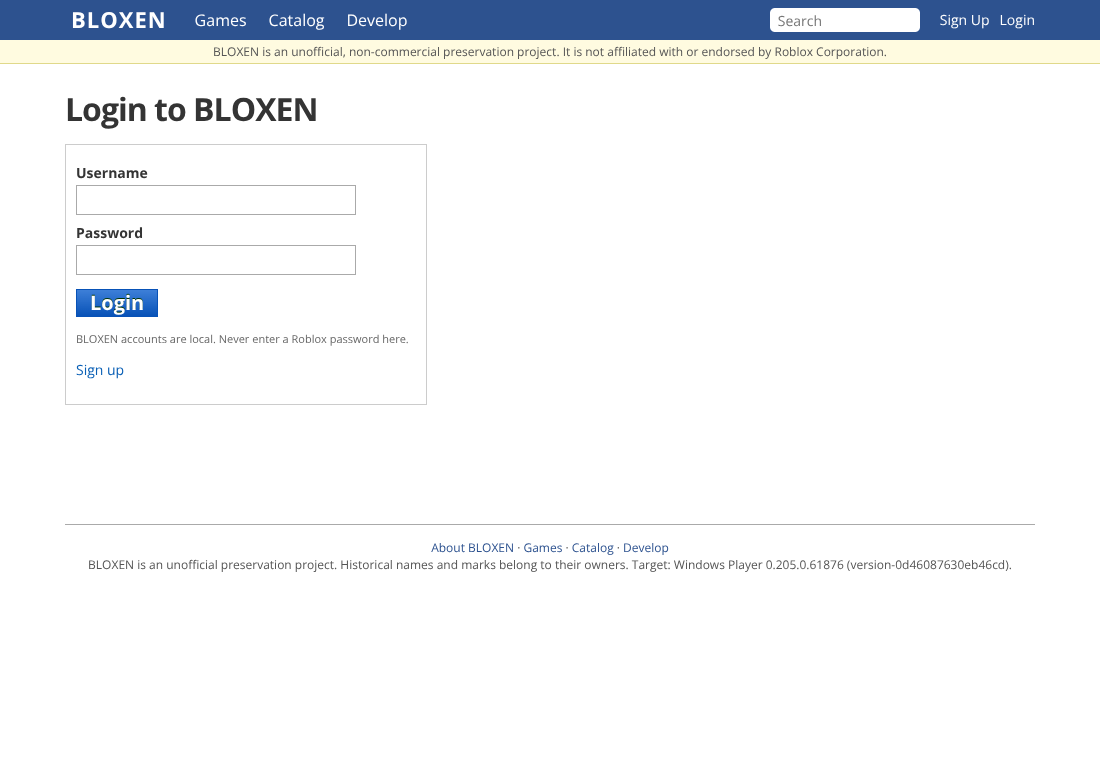
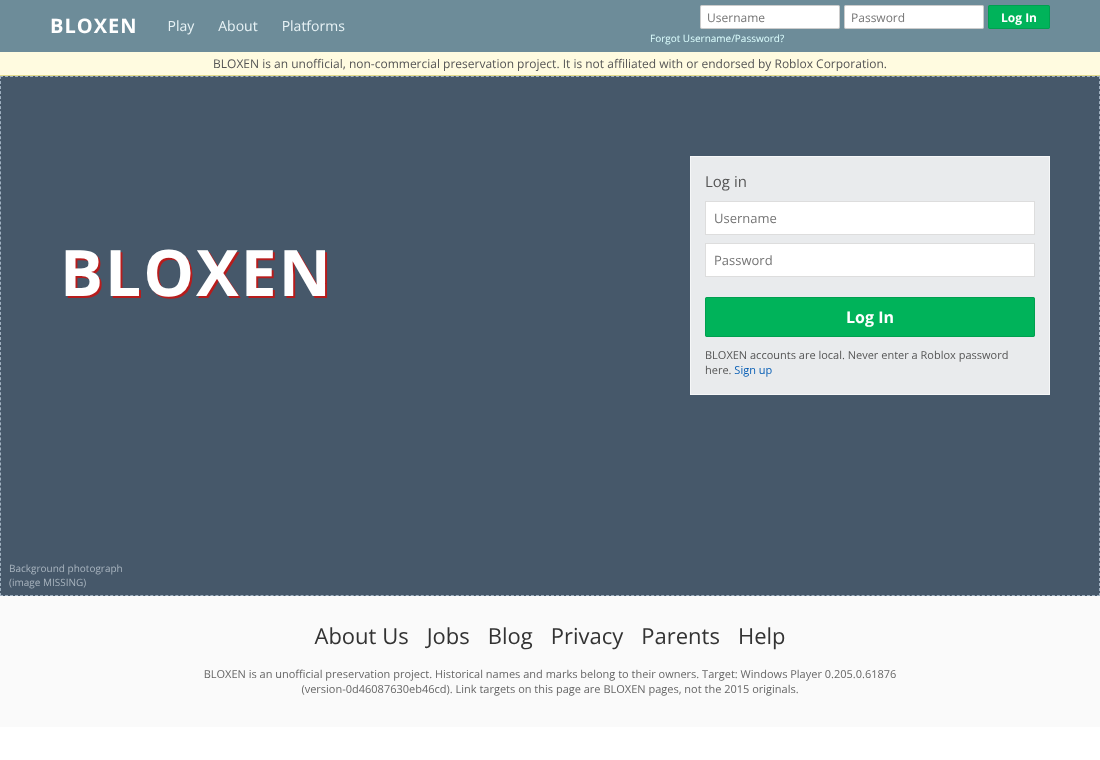
Website: rebuild logged-out Home/Login/Register from a real ~2015 screenshot reference (landing layout); honest reference table; test

diff --git a/src/web/views.js b/src/web/views.js
@@ -25,18 +25,42 @@ function figure(colors) { const b = (w, h, c) => `<div class="p${w}x${h} bc-${S.
   return `<div class="figure">${b(40, 40, colors.head_color)}<div class="row">${b(20, 80, colors.left_arm_color)}${b(40, 80, colors.torso_color)}${b(20, 80, colors.right_arm_color)}</div><div class="row">${b(40, 80, colors.left_leg_color)}${b(40, 80, colors.right_leg_color)}</div><div class="tip">BLOXEN colour preview &mdash; not a historical thumbnail</div></div>`; }
 const thumb = (t, alt) => `<div class="thumb" title="Archived thumbnail not retrieved">${esc(alt || t)}<br>(thumbnail MISSING)</div>`;
 
+// Logged-out landing page. REFERENCE: a real ~2015 screenshot (Web Design Museum "Roblox in 2015", held in quarantine, not redistributed) showing
+// translucent top bar with Play/About/Platforms + inline login, full-bleed hero with translucent sign-up panel, dark "What is ROBLOX?" band,
+// three-screenshot strip, light-grey "ROBLOX on your device." band, large footer links. Copy is ARCHIVED-EXACT (Wayback 20150723171630).
+// All photographic/brand imagery is MISSING (not retrieved) and is shown as labelled flat blocks, never substituted.
+const missingImg = (cls, what) => `<div class="missing ${cls}" title="Archived image not retrieved"><span>${esc(what)}<br>(image MISSING)</span></div>`;
+function landing(c, title, inner) {
+  const f = c.flash;
+  return `<!DOCTYPE html><html lang="en"><head><meta charset="utf-8"><title>${esc(title)} - BLOXEN</title><link rel="stylesheet" href="/static/css/bloxen.css"><link rel="stylesheet" href="/static/css/landing.css"><meta name="viewport" content="width=1000"></head><body class="landing">
+<div class="notice">BLOXEN is an unofficial, non-commercial preservation project. It is not affiliated with or endorsed by Roblox Corporation.</div>${f ? `<div class="flash ${f.err ? 'err' : 'ok'}">${esc(f.text)}</div>` : ''}${inner}</body></html>`;
+}
+function landingBar(tok, active) {
+  return `<div class="lbar"><div class="lin"><a class="llogo" href="/">BLOXEN</a><a class="ltab${active === 'play' ? ' on' : ''}" href="/games">Play</a><a class="ltab" href="/about">About</a><a class="ltab" href="/catalog">Platforms</a>
+<form class="llogin" method="post" action="/login"><input type="hidden" name="_csrf" value="${esc(tok)}"><input type="text" name="username" placeholder="Username" maxlength="20" autocomplete="username"><input type="password" name="password" placeholder="Password" maxlength="200" autocomplete="current-password"><button class="lgreen" type="submit">Log In</button><div class="lforgot"><a href="/about#accounts">Forgot Username/Password?</a></div></form></div></div>`;
+}
+const landingFooter = () => `<div class="lfoot"><div class="lflinks"><a href="/about">About Us</a><a href="/about">Jobs</a><a href="/about">Blog</a><a href="/about">Privacy</a><a href="/about">Parents</a><a href="/about">Help</a></div>
+<p>BLOXEN is an unofficial preservation project. Historical names and marks belong to their owners. Target: Windows Player ${cfg.clientBuild} (${cfg.clientVersion}). Link targets on this page are BLOXEN pages, not the 2015 originals.</p></div>`;
 function homeOut(c, tok) {
-  return layout(c, 'Home', `<h1>You Make the Game &trade;</h1><h3>Sign up and start having fun!</h3>
-<div class="hero"><div class="signup">${signupForm(c, tok)}</div><div><h1>What is ROBLOX?</h1><p>ROBLOX is the Game Powered by Players. Build your own game world and bring it to life, publish and share it, experience what others have created, play with friends. ROBLOX is the leader in user-generated creation and gaming for all ages. What will you build?</p>
-<p class="tip">Text from the 23 July 2015 home page (Wayback 20150723171630). BLOXEN hosts only the evidence-backed historical places listed under <a href="/games">Games</a>.</p></div></div>`);
+  return landing(c, 'Home', `${landingBar(tok, 'play')}
+<div class="lhero">${missingImg('herobg', 'Hero background photograph (images.rbxcdn.com/f76c76889f4b167ca1f27edc27eb8146.png)')}
+<div class="lhero-in"><div class="ltag"><div class="lwordmark">BLOXEN</div><h1>You Make the Game <sup>&trade;</sup></h1><div class="lcredit">Game: ROBLOX Point<br>Developer: StarMarine614</div></div>
+<div class="lsignup">${signupForm(c, tok)}</div></div></div>
+<div class="ldark"><div class="lband">${missingImg('charimg', 'Character artwork')}<div class="ltext"><h2>What is ROBLOX?</h2><p>ROBLOX is the Game Powered by Players. Build your own game world and bring it to life, publish and share it, experience what others have created, play with friends. ROBLOX is the leader in user-generated creation and gaming for all ages. What will you build?</p></div></div></div>
+<div class="lstrip">${missingImg('s1', 'Screenshot 1')}${missingImg('s2', 'Screenshot 2')}${missingImg('s3', 'Screenshot 3')}</div>
+<div class="ldevice"><h2>ROBLOX on your device.</h2><p>Play ROBLOX on your desktop, your tablet, or your phone. Access your account, games, and inventory; connect with your friends; and play games whether you're at home or on the go.</p>
+<div class="lbadges"><span class="lbadge">Available on the App Store</span><span class="lbadge">GET IT ON Google play</span></div>${missingImg('devimg', 'Desktop/tablet/phone artwork')}</div>
+<p class="tip lnote">Copy: Wayback 20150723171630 (ARCHIVED-EXACT). Layout: reconstructed from a ~2015 screenshot. BLOXEN hosts only the evidence-backed places listed under <a href="/games">Games</a>.</p>${landingFooter()}`);
 }
 function signupForm(c, tok) {
-  const months = ['Month', 'Jan', 'Feb', 'Mar', 'Apr', 'May', 'Jun', 'Jul', 'Aug', 'Sep', 'Oct', 'Nov', 'Dec']; const yrs = []; for (let y = 2015; y >= 1915; y--) yrs.push(y);
-  return `<h2 class="mt0">Sign Up</h2><form method="post" action="/register" class="stack"><input type="hidden" name="_csrf" value="${esc(tok)}">
-<label>Username</label><input type="text" name="username" maxlength="20" autocomplete="off" required><div class="tip">3-20 characters; letters, numbers, _</div>
-<label>Password</label><input type="password" name="password" minlength="8" maxlength="200" autocomplete="new-password" required><div class="tip">Use a NEW password. Never your Roblox password.</div>
-<label>Birthday</label><select name="bm">${months.map((m, i) => `<option value="${i}">${m}</option>`).join('')}</select> <select name="bd"><option value="0">Day</option>${Array.from({ length: 31 }, (_, i) => `<option>${i + 1}</option>`).join('')}</select> <select name="by"><option value="0">Year</option>${yrs.map(y => `<option>${y}</option>`).join('')}</select>
-<label>Gender</label><select name="gender"><option value="">-</option><option value="m">Boy</option><option value="f">Girl</option></select><p><button class="btn-medium btn-primary" type="submit">Sign Up</button></p></form>`;
+  const months = ['Month', 'January', 'February', 'March', 'April', 'May', 'June', 'July', 'August', 'September', 'October', 'November', 'December']; const yrs = []; for (let y = 2015; y >= 1915; y--) yrs.push(y);
+  return `<div class="lsu-h">Sign up and start having fun!</div><form method="post" action="/register" class="lsu"><input type="hidden" name="_csrf" value="${esc(tok)}">
+<input type="text" name="username" placeholder="Username (3-20 characters, no spaces)" maxlength="20" autocomplete="off" required>
+<input type="password" name="password" placeholder="Password (8+ characters)" minlength="8" maxlength="200" autocomplete="new-password" required>
+<input type="password" name="confirm" placeholder="Confirm Password" required maxlength="200" autocomplete="new-password">
+<div class="lsu-row"><span class="lsu-l">Birthday</span><select name="bm">${months.map((m, i) => `<option value="${i}">${m === 'Month' ? 'Month' : m}</option>`).join('')}</select><select name="bd"><option value="0">Day</option>${Array.from({ length: 31 }, (_, i) => `<option>${i + 1}</option>`).join('')}</select><select name="by"><option value="0">Year</option>${yrs.map(y => `<option>${y}</option>`).join('')}</select></div>
+<div class="lsu-row"><span class="lsu-l">Gender:</span><label><input type="radio" name="gender" value="m"> Boy</label> <label><input type="radio" name="gender" value="f"> Girl</label></div>
+<button class="lgreen lbig" type="submit">Sign Up</button></form><p class="lnotice">BLOXEN accounts are local. Use a NEW password &mdash; never your Roblox password.</p>`;
 }
 function homeIn(c, d) {
   const gameTile = g => `<div class="tile game"><a href="/games/${esc(g.id)}">${thumb('', g.title)}<div class="nm">${esc(g.title)}</div></a><div class="tip">by ${esc(g.creator || 'UNKNOWN')}</div></div>`;
@@ -110,8 +134,8 @@ function messages(c, d, compose) {
 }
 function message(c, m) { return layout(c, m.subject, `<h1>${esc(m.subject)}</h1><p class="tip">From ${esc(m.from_name)} &middot; ${when(m.created_at)}</p><pre class="ev">${esc(m.body)}</pre><p><a href="/my/messages?to=${encodeURIComponent(m.from_name)}">Reply</a></p>`); }
 function searchPage(c, q, r) { const l = (arr, f) => arr.length ? `<ul>${arr.map(f).join('')}</ul>` : '<p class="tip">No results.</p>'; return layout(c, 'Search', `<h1>Search: ${esc(q)}</h1><h2 class="light">Games</h2>${l(r.games, g => `<li><a href="/games/${esc(g.id)}">${esc(g.title)}</a> by ${esc(g.creator)}</li>`)}<h2 class="light">Catalog</h2>${l(r.items, i => `<li><a href="/catalog/item/${i.asset_id}">${esc(i.name)}</a> (${esc(i.type)})</li>`)}<h2 class="light">Users</h2>${l(r.users, u => `<li><a href="/users/${u.id}/profile">${esc(u.username)}</a></li>`)}<h2 class="light">Groups</h2>${l(r.groups, g => `<li><a href="/groups/${g.id}">${esc(g.name)}</a></li>`)}`); }
-function login(c, tok, next) { return layout(c, 'Login', `<h1>Login to BLOXEN</h1><div class="box w340"><form method="post" action="/login" class="stack"><input type="hidden" name="_csrf" value="${esc(tok)}"><input type="hidden" name="next" value="${esc(next || '')}"><label>Username</label><input type="text" name="username" maxlength="20" autocomplete="username"><label>Password</label><input type="password" name="password" maxlength="200" autocomplete="current-password"><p><button class="btn-medium btn-neutral">Login</button></p></form><p class="tip">BLOXEN accounts are local. Never enter a Roblox password here.</p><p><a href="/register">Sign up</a></p></div>`); }
-function register(c, tok) { return layout(c, 'Sign Up', `<h1>Sign Up</h1><div class="box w340">${signupForm(c, tok)}</div>`); }
+function login(c, tok, next) { return landing(c, 'Login', `${landingBar(tok, '')}<div class="lhero lhero-short">${missingImg('herobg', 'Background photograph')}<div class="lhero-in"><div class="ltag"><div class="lwordmark">BLOXEN</div></div><div class="lsignup"><div class="lsu-h">Log in</div><form method="post" action="/login" class="lsu"><input type="hidden" name="_csrf" value="${esc(tok)}"><input type="hidden" name="next" value="${esc(next || '')}"><input type="text" name="username" placeholder="Username" maxlength="20" autocomplete="username"><input type="password" name="password" placeholder="Password" maxlength="200" autocomplete="current-password"><button class="lgreen lbig" type="submit">Log In</button></form><p class="lnotice">BLOXEN accounts are local. Never enter a Roblox password here. <a href="/register">Sign up</a></p></div></div></div>${landingFooter()}`); }
+function register(c, tok) { return landing(c, 'Sign Up', `${landingBar(tok, '')}<div class="lhero lhero-short">${missingImg('herobg', 'Background photograph')}<div class="lhero-in"><div class="ltag"><div class="lwordmark">BLOXEN</div><h1>You Make the Game <sup>&trade;</sup></h1></div><div class="lsignup">${signupForm(c, tok)}</div></div></div>${landingFooter()}`); }
 function account(c) { const u = c.user; return layout(c, 'Account Settings', `<h1>Account Settings</h1><div class="box"><h3>Account Info</h3><table class="t prov"><tr><td>Username</td><td>${esc(u.username)}</td></tr><tr><td>Birthday</td><td>${esc(u.birthday || 'not set')}</td></tr><tr><td>Member since</td><td>${when(u.created_at)}</td></tr></table></div>
 <div class="box"><h3>Blurb</h3>${postForm(c, '/my/account/blurb', `<textarea name="blurb" maxlength="1000" class="w440">${esc(u.blurb)}</textarea><p><button class="btn-small btn-neutral">Save</button></p>`, 'stack')}</div>
 <div class="box"><h3>Change Password</h3>${postForm(c, '/my/account/password', '<label>Current password</label><input type="password" name="current" maxlength="200" autocomplete="current-password"><label>New password</label><input type="password" name="password" maxlength="200" autocomplete="new-password"><p><button class="btn-small btn-neutral">Change</button></p>', 'stack')}</div>

diff --git a/static/css/landing.css b/static/css/landing.css
@@ -1,0 +1,33 @@
+/* Logged-out landing/login/register layout.
+   Reference: ~2015 screenshot (Web Design Museum "Roblox in 2015"; sampled colours: sign-up/login button #00b35a, light band #f2f2f2, footer #fafafa,
+   translucent teal top bar over the hero photo). The real photographs/logo are MISSING -> flat labelled blocks. Sizes are proportional estimates
+   from a 500px-wide reduction of the screenshot, NOT measured pixel values. */
+body.landing { margin: 0; background: #fff; color: #343434; }
+.landing .notice { position: relative; z-index: 5; margin-top: 52px; }
+.landing .missing { background: #46586a; color: #cfd8e0; display: flex; align-items: center; justify-content: center; text-align: center; font-size: 12px; border: 1px dashed #9fb0c0; box-sizing: border-box; }
+.lbar { position: absolute; top: 0; left: 0; right: 0; height: 52px; background: rgba(20, 70, 90, .62); z-index: 4; }
+.lin { width: 1000px; margin: 0 auto; height: 52px; position: relative; display: flex; align-items: center; }
+.llogo { color: #fff; font-weight: bold; font-size: 20px; letter-spacing: 1px; margin-right: 18px; text-decoration: none; }
+.ltab { color: #e8f3f6; font-size: 14px; padding: 13px 12px 11px; text-decoration: none; border-bottom: 3px solid transparent; } .ltab.on { color: #fff; border-bottom-color: #fff; } .ltab:hover { text-decoration: none; background: rgba(255,255,255,.12); }
+.llogin { position: absolute; right: 0; top: 5px; display: flex; flex-wrap: wrap; width: 400px; justify-content: flex-end; }
+.llogin input { width: 140px; height: 24px; margin: 0 4px 0 0; border: 1px solid #ccc; box-sizing: border-box; padding: 0 6px; font-size: 12px; border-radius: 2px; }
+.lgreen { background: #00b35a; border: 1px solid #00a050; color: #fff; font-weight: bold; font-size: 12px; height: 24px; padding: 0 12px; cursor: pointer; border-radius: 2px; }
+.lgreen:hover { background: #00c264; } .lbig { width: 100%; height: 40px; font-size: 16px; margin-top: 12px; }
+.lforgot { width: 100%; text-align: left; font-size: 10px; margin-top: 3px; line-height: 12px; } .lforgot a { color: #dff; }
+.lhero { position: relative; height: 560px; overflow: hidden; background: #46586a; } .lhero-short { height: 520px; }
+.herobg { position: absolute; inset: 0; } .herobg span { position: absolute; left: 8px; bottom: 6px; font-size: 10px; text-align: left; opacity: .7; }
+.lhero-in { position: relative; z-index: 2; width: 1000px; margin: 0 auto; height: 100%; }
+.ltag { position: absolute; left: 10px; top: 150px; color: #fff; width: 420px; }
+.lwordmark { font-size: 64px; font-weight: bold; letter-spacing: 2px; color: #fff; text-shadow: 2px 2px 0 #b71c1c; } .ltag h1 { font-size: 22px; font-weight: normal; margin: 6px 0 0 70px; color: #fff; } .ltag sup { font-size: 10px; }
+.lcredit { position: absolute; left: 0; top: 300px; font-size: 16px; line-height: 1.2; text-shadow: 1px 1px 2px #000; }
+.lsignup { position: absolute; right: 0; top: 80px; width: 360px; background: rgba(255,255,255,.88); padding: 14px 14px 16px; box-sizing: border-box; border: 1px solid rgba(255,255,255,.6); }
+.lsu-h { color: #555; font-size: 15px; margin-bottom: 8px; } .lsu input[type=text], .lsu input[type=password] { display: block; width: 100%; height: 34px; margin-bottom: 8px; border: 1px solid #ddd; box-sizing: border-box; padding: 0 8px; font-size: 13px; background: #fff; }
+.lsu-row { display: flex; align-items: center; margin-bottom: 8px; font-size: 13px; color: #555; background: #fff; border: 1px solid #ddd; padding: 4px 6px; } .lsu-l { width: 64px; } .lsu select { margin-right: 4px; font-size: 12px; } .lsu label { margin-right: 10px; }
+.lnotice { font-size: 11px; color: #555; margin: 10px 0 0; }
+.ldark { background: #181614; color: #fff; } .lband { width: 1000px; margin: 0 auto; height: 340px; display: flex; align-items: center; }
+.charimg { width: 440px; height: 340px; background: #2a2522; } .ltext { flex: 1; padding-left: 60px; } .ltext h2 { font-size: 30px; font-weight: normal; margin: 0 0 14px; text-align: right; } .ltext p { font-size: 15px; line-height: 1.5; text-align: justify; margin: 0; }
+.lstrip { display: flex; height: 160px; } .lstrip .missing { flex: 1; height: 160px; margin-right: 2px; background: #3a5564; }
+.ldevice { background: #f2f2f2; text-align: center; padding: 34px 0 0; } .ldevice h2 { font-size: 22px; font-weight: normal; color: #666; margin: 0 0 10px; } .ldevice p { width: 560px; margin: 0 auto 14px; font-size: 14px; line-height: 1.5; color: #555; }
+.lbadges { margin-bottom: 16px; } .lbadge { display: inline-block; background: #111; color: #fff; font-size: 11px; padding: 8px 14px; border-radius: 5px; margin: 0 4px; } .devimg { width: 600px; height: 200px; margin: 0 auto; background: #d9d9d9; color: #666; border-color: #aaa; }
+.lnote { text-align: center; margin: 0; padding: 6px; background: #f2f2f2; }
+.lfoot { background: #fafafa; text-align: center; padding: 24px 0 30px; } .lflinks a { font-size: 22px; color: #333; margin: 0 9px; text-decoration: none; } .lfoot p { width: 700px; margin: 14px auto 0; font-size: 11px; color: #666; }

diff --git a/src/web/app.js b/src/web/app.js
@@ -41,7 +41,7 @@ function createWebApp({ db, gameservers, log = () => {}, secureCookies = false }
   add('POST', '/register', { pre: true }, async c => {
     const f = c.form; const name = String(f.username || ''); const pw = String(f.password || '');
     const fail = m => { const t = preToken(c); c.flash = { text: m, err: true }; return out(c, 400, V.register(c, t)); };
-    if (!auth.validUsername(name)) return fail('Usernames are 3-20 characters: letters, numbers and single underscores, not starting or ending with _.'); if (!auth.validPassword(pw)) return fail('Password must be 8-200 characters.'); if (pw.toLowerCase() === name.toLowerCase()) return fail('Password cannot be your username.');
+    if (!auth.validUsername(name)) return fail('Usernames are 3-20 characters: letters, numbers and single underscores, not starting or ending with _.'); if (!auth.validPassword(pw)) return fail('Password must be 8-200 characters.'); if (pw.toLowerCase() === name.toLowerCase()) return fail('Password cannot be your username.'); if (f.confirm !== undefined && f.confirm !== '' && f.confirm !== pw) return fail('Passwords do not match.'); if (f.confirm === '') return fail('Please confirm your password.');
     const by = +f.by, bm = +f.bm, bd = +f.bd; const birthday = by >= 1915 && by <= 2015 && bm >= 1 && bm <= 12 && bd >= 1 && bd <= 31 ? `${by}-${String(bm).padStart(2, '0')}-${String(bd).padStart(2, '0')}` : null;
     if (S.userByName(db, name)) return fail('That username is already taken.');
     const hash = await auth.hashPassword(pw); let id; try { id = S.createUser(db, { username: name, hash, birthday, gender: ['m', 'f'].includes(f.gender) ? f.gender : null }); } catch (e) { return fail('That username is already taken.'); }

diff --git a/tests/web.test.js b/tests/web.test.js
@@ -84,3 +84,12 @@ test('off-sale catalog items cannot be acquired for free', async t => {
   const page = await b.get('/catalog/item/33337041'); assert.match(page.text, /Off Sale/); await b.follow(await b.post('/catalog/item/33337041/buy', {}, { page: '/catalog/item/33337041' }));
   assert.equal(app.db.prepare('SELECT COUNT(*) n FROM inventory WHERE asset_id=33337041').get().n, 0);
 });
+
+test('logged-out landing follows the 2015 reference structure and stays safe', async t => {
+  const app = await start({ dbPath: ':memory:', webPort: 0, compatPort: 0, quiet: true }); t.after(() => app.close()); const b = new Browser(app.webUrl); const h = (await b.get('/')).text;
+  const order = ['class="lbar"', 'Forgot Username/Password?', 'class="lhero', 'Game: ROBLOX Point', 'Sign up and start having fun!', 'class="ldark"', 'What is ROBLOX?', 'class="lstrip"', 'ROBLOX on your device.', 'class="lfoot"'].map(x => h.indexOf(x));
+  assert.ok(order.every(i => i >= 0) && order.every((v, i) => !i || v > order[i - 1]), 'section order ' + order);
+  for (const a of ['Play', 'About', 'Platforms', 'Confirm Password', 'Birthday', 'About Us', 'Jobs', 'Blog', 'Privacy', 'Parents', 'Help']) assert.ok(h.includes(a), a);
+  assert.match(h, /image MISSING/); assert.ok(!/<img /.test(h), 'no substituted imagery'); assert.ok(!/\sstyle=/.test(h));
+  const reg = await b.post('/register', { username: 'mism' + Date.now() % 100000, password: 'correct-horse-9', confirm: 'different-pw-9' }, { page: '/register' }); assert.equal(reg.status, 400);
+});

diff --git a/research/WEBSITE.md b/research/WEBSITE.md
@@ -5,7 +5,7 @@ Implementation: `src/web/{app,views,main}.js`, `static/css/bloxen.css`, `static/
 ## Pages (all implemented, all render 200; screenshots in `research/visual/`)
 | Required page | Route | Content evidence | Layout/CSS evidence |
 |---|---|---|---|
-| Home (logged out) | `/` | **ARCHIVED-EXACT text** (Wayback 20150723171630): "You Make the Game ™", "Sign up and start having fun!", signup form fields Username/Password/Birthday/Gender, "What is ROBLOX?" paragraph | RECONSTRUCTED-FROM-EVIDENCE |
+| Home (logged out) | `/` | **ARCHIVED-EXACT text** (Wayback 20150723171630) | layout from a real ~2015 screenshot (ARCHIVED-NEAR-DATE, reduced size); imagery MISSING |
 | Home (logged in) | `/home` | "Hello, <name>!", Recently Played, Favorites, Friends — structure INFERRED from memory of 2015 | RECONSTRUCTED |
 | Games | `/games` | Sort names, time filters and genre list from Wayback 20150726062742 (the list itself is JS-loaded in the capture and absent); BLOXEN lists only its evidence-backed places | RECONSTRUCTED |
 | Game Details | `/games/:id` | Adds an honest **provenance panel** (grade, SHA-256, evidence, playability badge) that did not exist in 2015 — deliberate deviation for preservation honesty | RECONSTRUCTED |
@@ -19,14 +19,25 @@ Implementation: `src/web/{app,views,main}.js`, `static/css/bloxen.css`, `static/
 | Account Settings | `/my/account` | INFERRED | RECONSTRUCTED |
 
 ## Visual comparison — honest statement
-**No 2015 pixel reference was obtainable.** Wayback HTML captures exist but the CSS/image sub-resources were not retrievable from this sandbox, and the only real-CSS source (RobloxLabs/web) is 2012–14. The method actually used:
-1. *Reference*: archived 2015 text/structure for logged-out Home and Games; 2012–14 CSS numeric values (header #2D528F, hover #27487E, 40 px fixed header, 16 px header links, buttons #007001 / #0852b7 / #565656, link #095fb5, text #343434, h1 32 px, 970 px page width).
-2. *Render*: `node tools/screenshot_pages.js` → `research/visual/*.png` (Chromium, 1100 px viewport).
-3. *Compare* against those values/structures, *correct*, re-render.
+**Pixel-level 2015 references are scarce.** What exists and was used:
+| Reference | What it shows | Grade | Held where |
+|---|---|---|---|
+| Web Design Museum "Roblox in 2015" (`webdesignmuseum.org/uploaded/timeline/roblox/roblox-2015.jpg`; only a 500×1060 reduction could be obtained) | Complete logged-out Home: copy matches Wayback 20150723171630 exactly (ROBLOX Point / StarMarine614), so it is a mid-2015 capture | ARCHIVED-NEAR-DATE (date of the screenshot itself not stated) | `/home/user/quarantine/visual-ref/` (third-party image, **not committed**) |
+| Fandom "Roblox Home" gallery "homepage from early 2015 to early 2016" | 185 px thumbnail of logged-in Home ("Hello, <name>!", avatar box, Recently Played thumbnails, blue header) | ARCHIVED-NEAR-DATE, too small to measure | quarantine |
+| Wayback text of Home (20150723171630, 20150724155302), Games (20150726062742), /Login→/NewLogin redirect | Copy and control inventory, not layout | ARCHIVED-EXACT for text | URLs in HISTORICAL-SOURCE-MAP |
+| RobloxLabs/web 2012–14 CSS | numeric values for logged-in chrome (header #2D528F, 40px, 970px, buttons) | ARCHIVED-NEAR-DATE (1–3 years earlier) for values only | quarantine |
+Wayback CSS/image sub-resources could not be retrieved (sandbox cannot reach Wayback directly; the fetch tool returns markdown, not raw HTML/CSS).
 
-Findings corrected this way: (a) inline `style=` attributes silently blocked by CSP left the avatar figure and colour swatches blank → replaced with CSS classes and a generated `brickcolors.css`, test added; (b) logged-in header wrapped the "Character" link onto a second line at 970 px → search/links sized to fit.
+**Correction made after finding the screenshot:** the first logged-out Home was built from the 2012–14 CSS and the archived text only, i.e. a two-column 970px page on white. The real 2015 page is a full-width landing: translucent teal top bar (Play / About / Platforms + inline Username/Password/Log In + "Forgot Username/Password?"), full-bleed hero photo with the logo, "You Make the Game ™", "Game: ROBLOX Point / Developer: StarMarine614" bottom-left and a translucent sign-up panel on the right (Username, Password, Confirm Password, Birthday, Gender, green Sign Up #00b35a), a dark "What is ROBLOX?" band, a three-screenshot strip, a light-grey (#f2f2f2) "ROBLOX on your device." band with App Store/Google Play badges, and a large footer link row (About Us, Jobs, Blog, Privacy, Parents, Help) on #fafafa. `/`, `/login` and `/register` now use this layout (`landing()` in views.js, `static/css/landing.css`). Login and Register pages reuse the landing chrome because the 2015 `/NewLogin` page was observed to be part of the same landing design family (structure INFERRED; no screenshot of it was found).
 
-Known residual deviations (NOT corrected, recorded honestly): font is a web-safe sans stack, not the Source Sans Pro used in 2015 (no font file retrieved); no sprite sheets/logo (the meatball logo SVG path is known from the capture but the file was not retrieved, so a text "BLOXEN" wordmark is used); Games/Catalog tiles use a flat grid rather than the 2015 gradient cards; no thumbnails at all. The site is therefore **structurally faithful and unmodernised but not pixel-verified**. Status: PARTIAL.
+Method: reference → render (`node tools/screenshot_pages.js`, `research/visual/*.png`) → compare → correct.
+Measured/compared: band order, nav items and their placement, panel position (right, ~50–84% of width) and translucency, control order in the form, button colour (sampled #00b35a), band colours (#f2f2f2/#fafafa sampled), footer link row. **Not measured:** absolute pixel dimensions (the reference is a 500px reduction of unknown original width), fonts (Source Sans Pro not retrievable), and every photographic asset — hero, character, three strip screenshots, device artwork, the logo — which are MISSING and rendered as labelled flat blocks, never substituted.
+
+Deliberate deviations (honesty/safety, recorded): BLOXEN text wordmark instead of the logo; the preservation notice banner; password rule is BLOXEN's (8+ characters, not the 2015 "4 letters and 2 numbers"); gender shown as labelled radios instead of icons; footer links point at BLOXEN pages.
+
+Still NOT reference-checked (structure INFERRED from period memory and 2012–14 CSS): Games, Game Details, Catalog, Catalog Item, Profile, Character, Inventory, Friends, Groups, Messages, Develop, Search, Account Settings, and the logged-in Home beyond the 185 px thumbnail. These use the older-style 970px chrome and are the next targets if more 2015 screenshots can be found. Status: PARTIAL.
+
+Defects found and fixed by screenshot inspection along the way: (a) CSP silently blocked inline `style=` so the avatar figure/swatches were blank → CSS classes + test; (b) logged-in header wrapped "Character" → resized; (c) logged-out Home structurally wrong (above).
 
 ## Accounts & security (UNIT/INTEGRATION-TESTED, `tests/web.test.js`)
 scrypt password hashing; sessions stored only as SHA-256 of the cookie token (`HttpOnly; SameSite=Lax`); CSRF token on every POST (double-submit cookie before login); login throttling (429); output escaping (XSS test); parameterised SQL only (SQLi test); open-redirect guard on `next`; static-file traversal blocked; security headers. Registration never asks for a Roblox password and BLOXEN never reads or stores Roblox cookies. The start allowance of 100,000 R$ is a BLOXEN choice and is labelled NOT historical.

diff --git a/STATUS.md b/STATUS.md
@@ -12,7 +12,7 @@ Suite: `npm test` (all green at last run) · e2e: `npm run e2e`.
 | Game candidates | **PARTIAL** | 9 curated; 5 fetched and SHA-256-verified into the git-ignored store (Tabula Rasa, both Crossroads files, Happy Home, Roblox HQ); each joins through the full e2e flow (SIMULATOR-TESTED, geometry only). All provenance INFERRED; no 2015-era place found. |
 | Script intake/classification | **PARTIAL** | Inventory + static classification (`analyze.js`); replication support is taken from `world.js` (single source of truth). The 4 post-2015-feature files are named in research/GAMES.md; their specific features are not itemised. |
 | Script runtime | **NOT STARTED** | No place is claimed playable; all are GEOMETRY-ONLY. |
-| Website pages (16 types) | **PARTIAL** | All render, INTEGRATION-TESTED. Faithful to archived text/structure; **not pixel-verified** (no 2015 reference; font, logo, sprites, thumbnails missing). |
+| Website pages (16 types) | **PARTIAL** | All render, INTEGRATION-TESTED. Logged-out Home/Login/Register rebuilt to match a real ~2015 screenshot (structure, colours sampled); the other pages are still from 2012–14 CSS values + period memory (no 2015 reference found) and NOT pixel-verified. Photos, logo, fonts, thumbnails MISSING. |
 | Accounts/sessions/security | **DONE, TESTED** | scrypt, hashed sessions, CSRF, XSS/SQLi/traversal/redirect tests, throttling. Email, settings beyond password/blurb, favourites UI minimal. |
 | Catalog | **PARTIAL** | 44 real archived items from two captures; no shirts/pants/heads; 7+ chunks unread; thumbnails/content MISSING. |
 | Inventory/ownership/avatar/equip | **DONE, TESTED** | Wearable hats/faces/T-shirts equip; body colours reach spawned character (SIMULATOR-TESTED). Shirts/pants/packages not exercised for lack of items. Thumbnails: **NOT STARTED** (no renderer; labelled colour preview only). |

diff --git a/research/PROVENANCE.md b/research/PROVENANCE.md
@@ -13,7 +13,8 @@ A grade describes **the artifact BLOXEN holds**, not the historical existence of
 | Client API dump | `preservation/reference/api-0.205.0.61876.json` from RobloxAPI/build-archive | ARCHIVED-EXACT (version-keyed) | 332 classes / 851 properties / 266 events / 124 enums. The client's own tables are larger (968/320): the gap is presumed hidden members, UNVERIFIED. |
 | Logged-out Home page text | Wayback 20150723171630 | ARCHIVED-EXACT (text) | Layout/CSS not retained → layout is RECONSTRUCTED-FROM-EVIDENCE. |
 | Games page structure (sorts, filters, genres, launch-overlay text) | Wayback 20150726062742 | ARCHIVED-NEAR-DATE | Game list is JS-loaded and absent from the capture. |
-| Site CSS values | RobloxLabs/web (MIT fan remake carrying real 2012-14 CSS), reference only, not redistributed | ARCHIVED-NEAR-DATE for values; RECONSTRUCTED for the stylesheet | No 2015 pixel reference was obtainable. |
+| Logged-out Home/Login/Register layout | Web Design Museum 2015 screenshot (500px reduction, quarantine only) | ARCHIVED-NEAR-DATE (structure); RECONSTRUCTED stylesheet; all imagery MISSING | sizes are proportional estimates |
+| Other pages' CSS values | RobloxLabs/web (MIT fan remake carrying real 2012-14 CSS), reference only, not redistributed | ARCHIVED-NEAR-DATE for values; RECONSTRUCTED for the stylesheet | No 2015 pixel reference found for these pages. |
 | Catalog seed 20150309034826 | 24 items, `preservation/catalog/` | ARCHIVED-NEAR-DATE | Capture is 4.5 months before target. 2 of 4 chunks read. |
 | Catalog seed 20150616223239 | 20 items (Collectibles query) | ARCHIVED-NEAR-DATE | 5.5 weeks before target. 3 of 7 chunks read; hand-transcribed. |
 | Catalog thumbnails / asset content | none | **MISSING** | Not retrieved; never substituted. |
